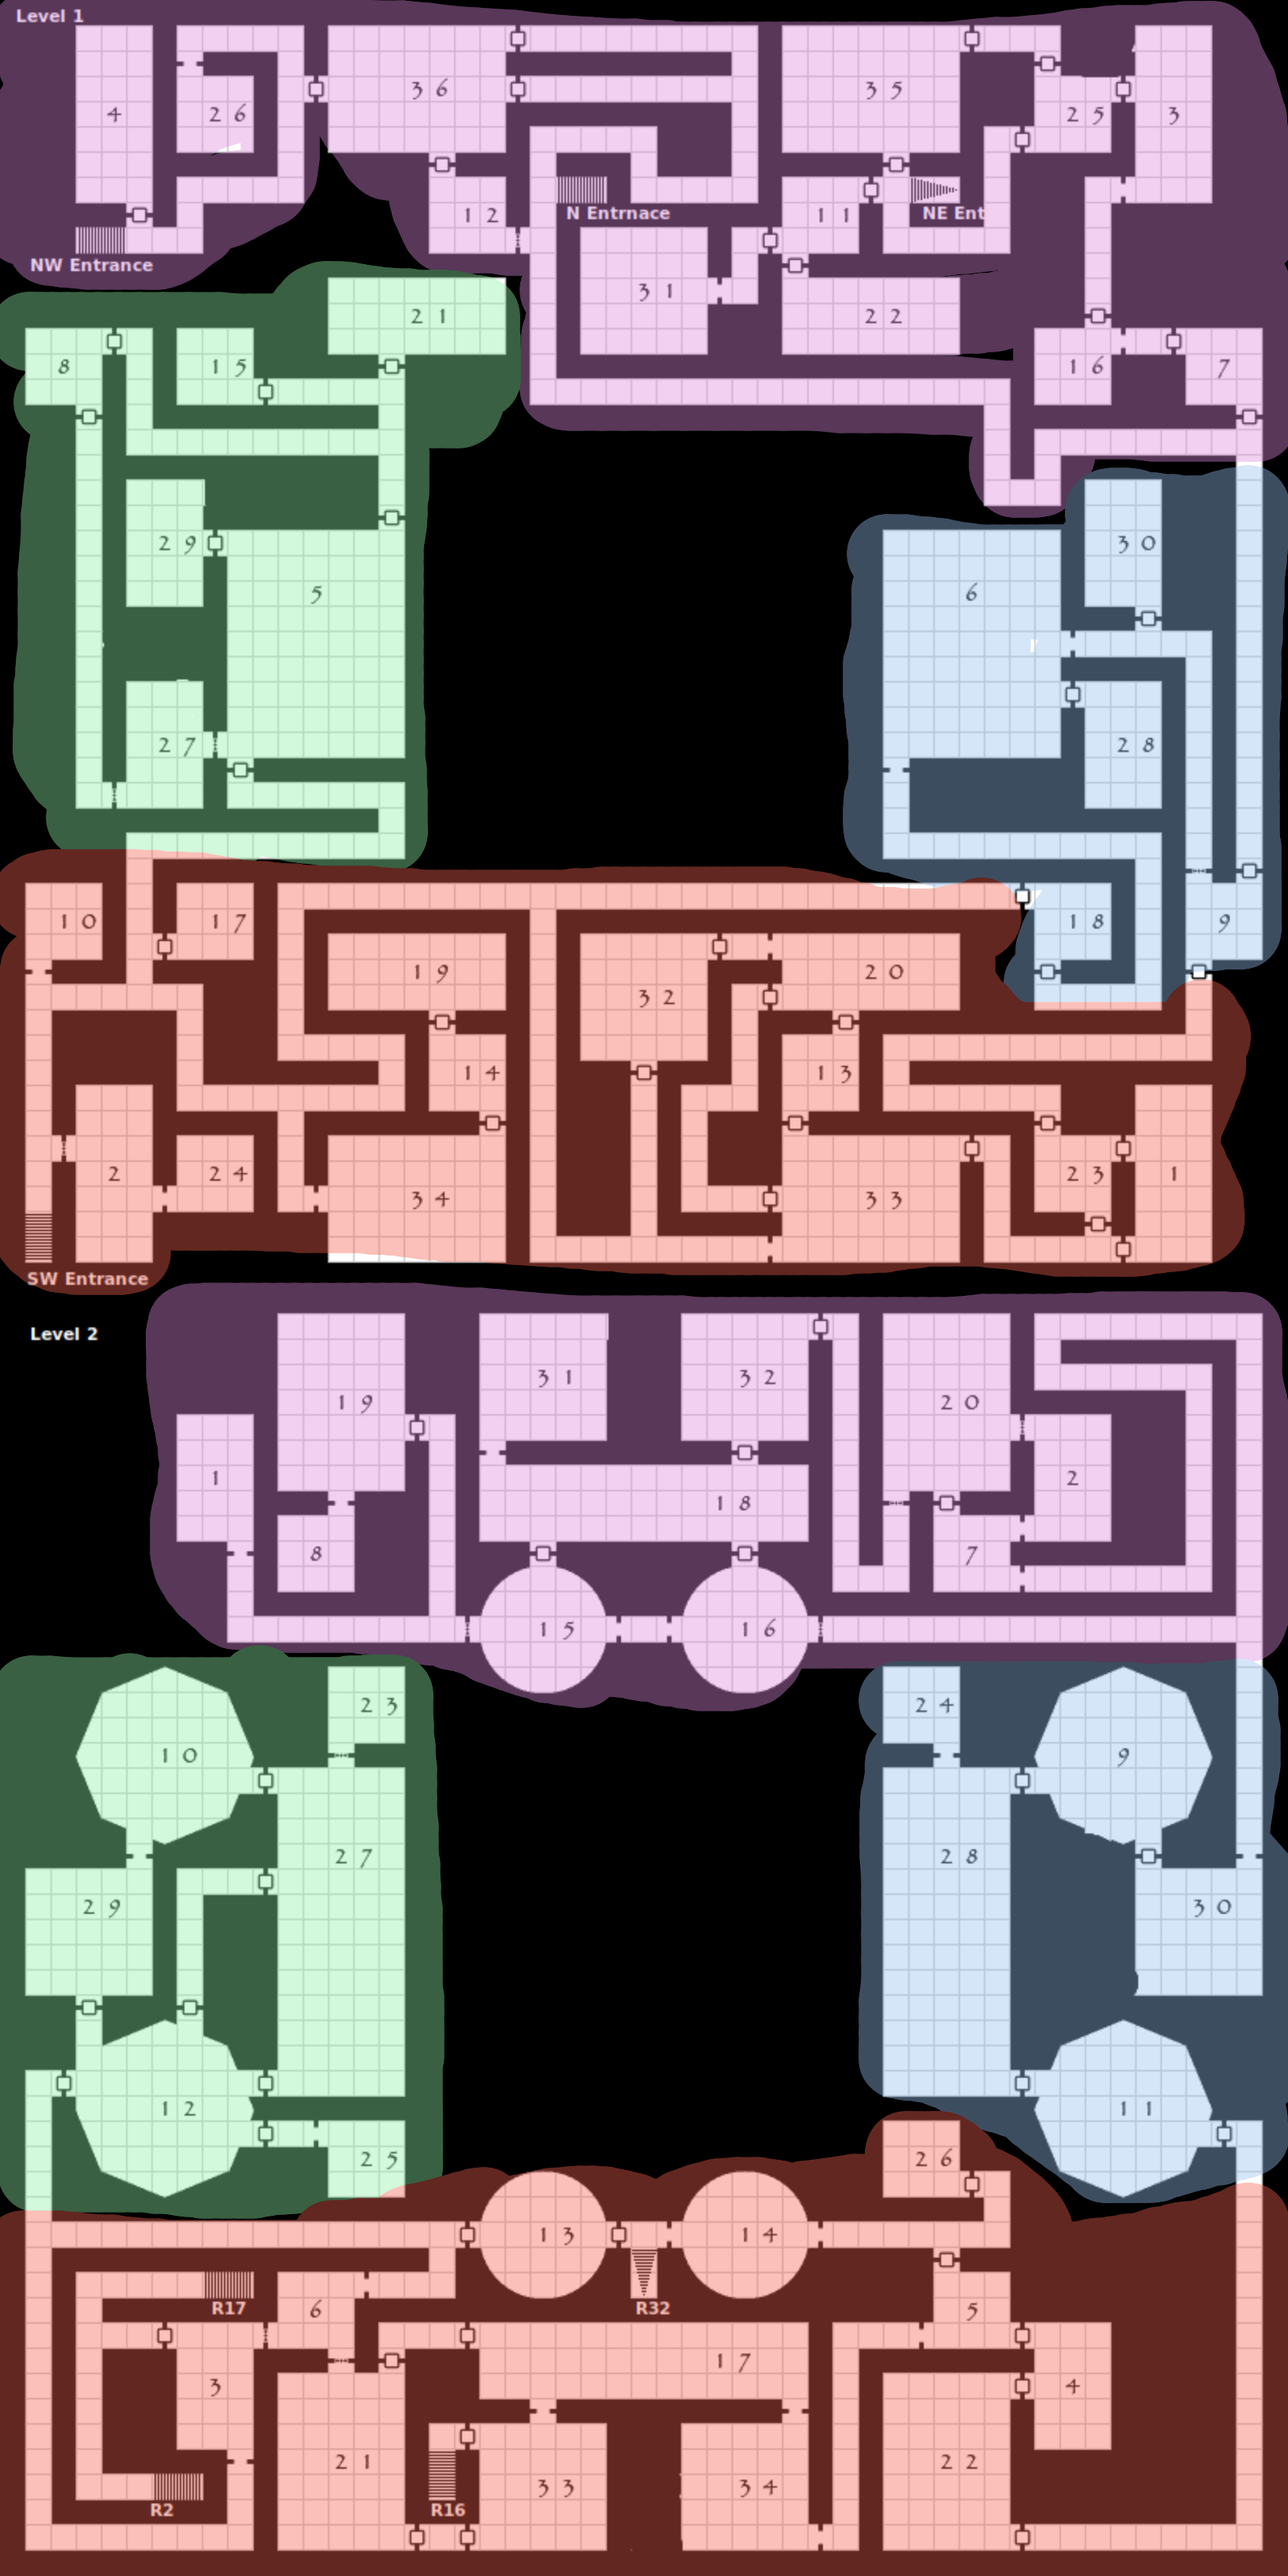
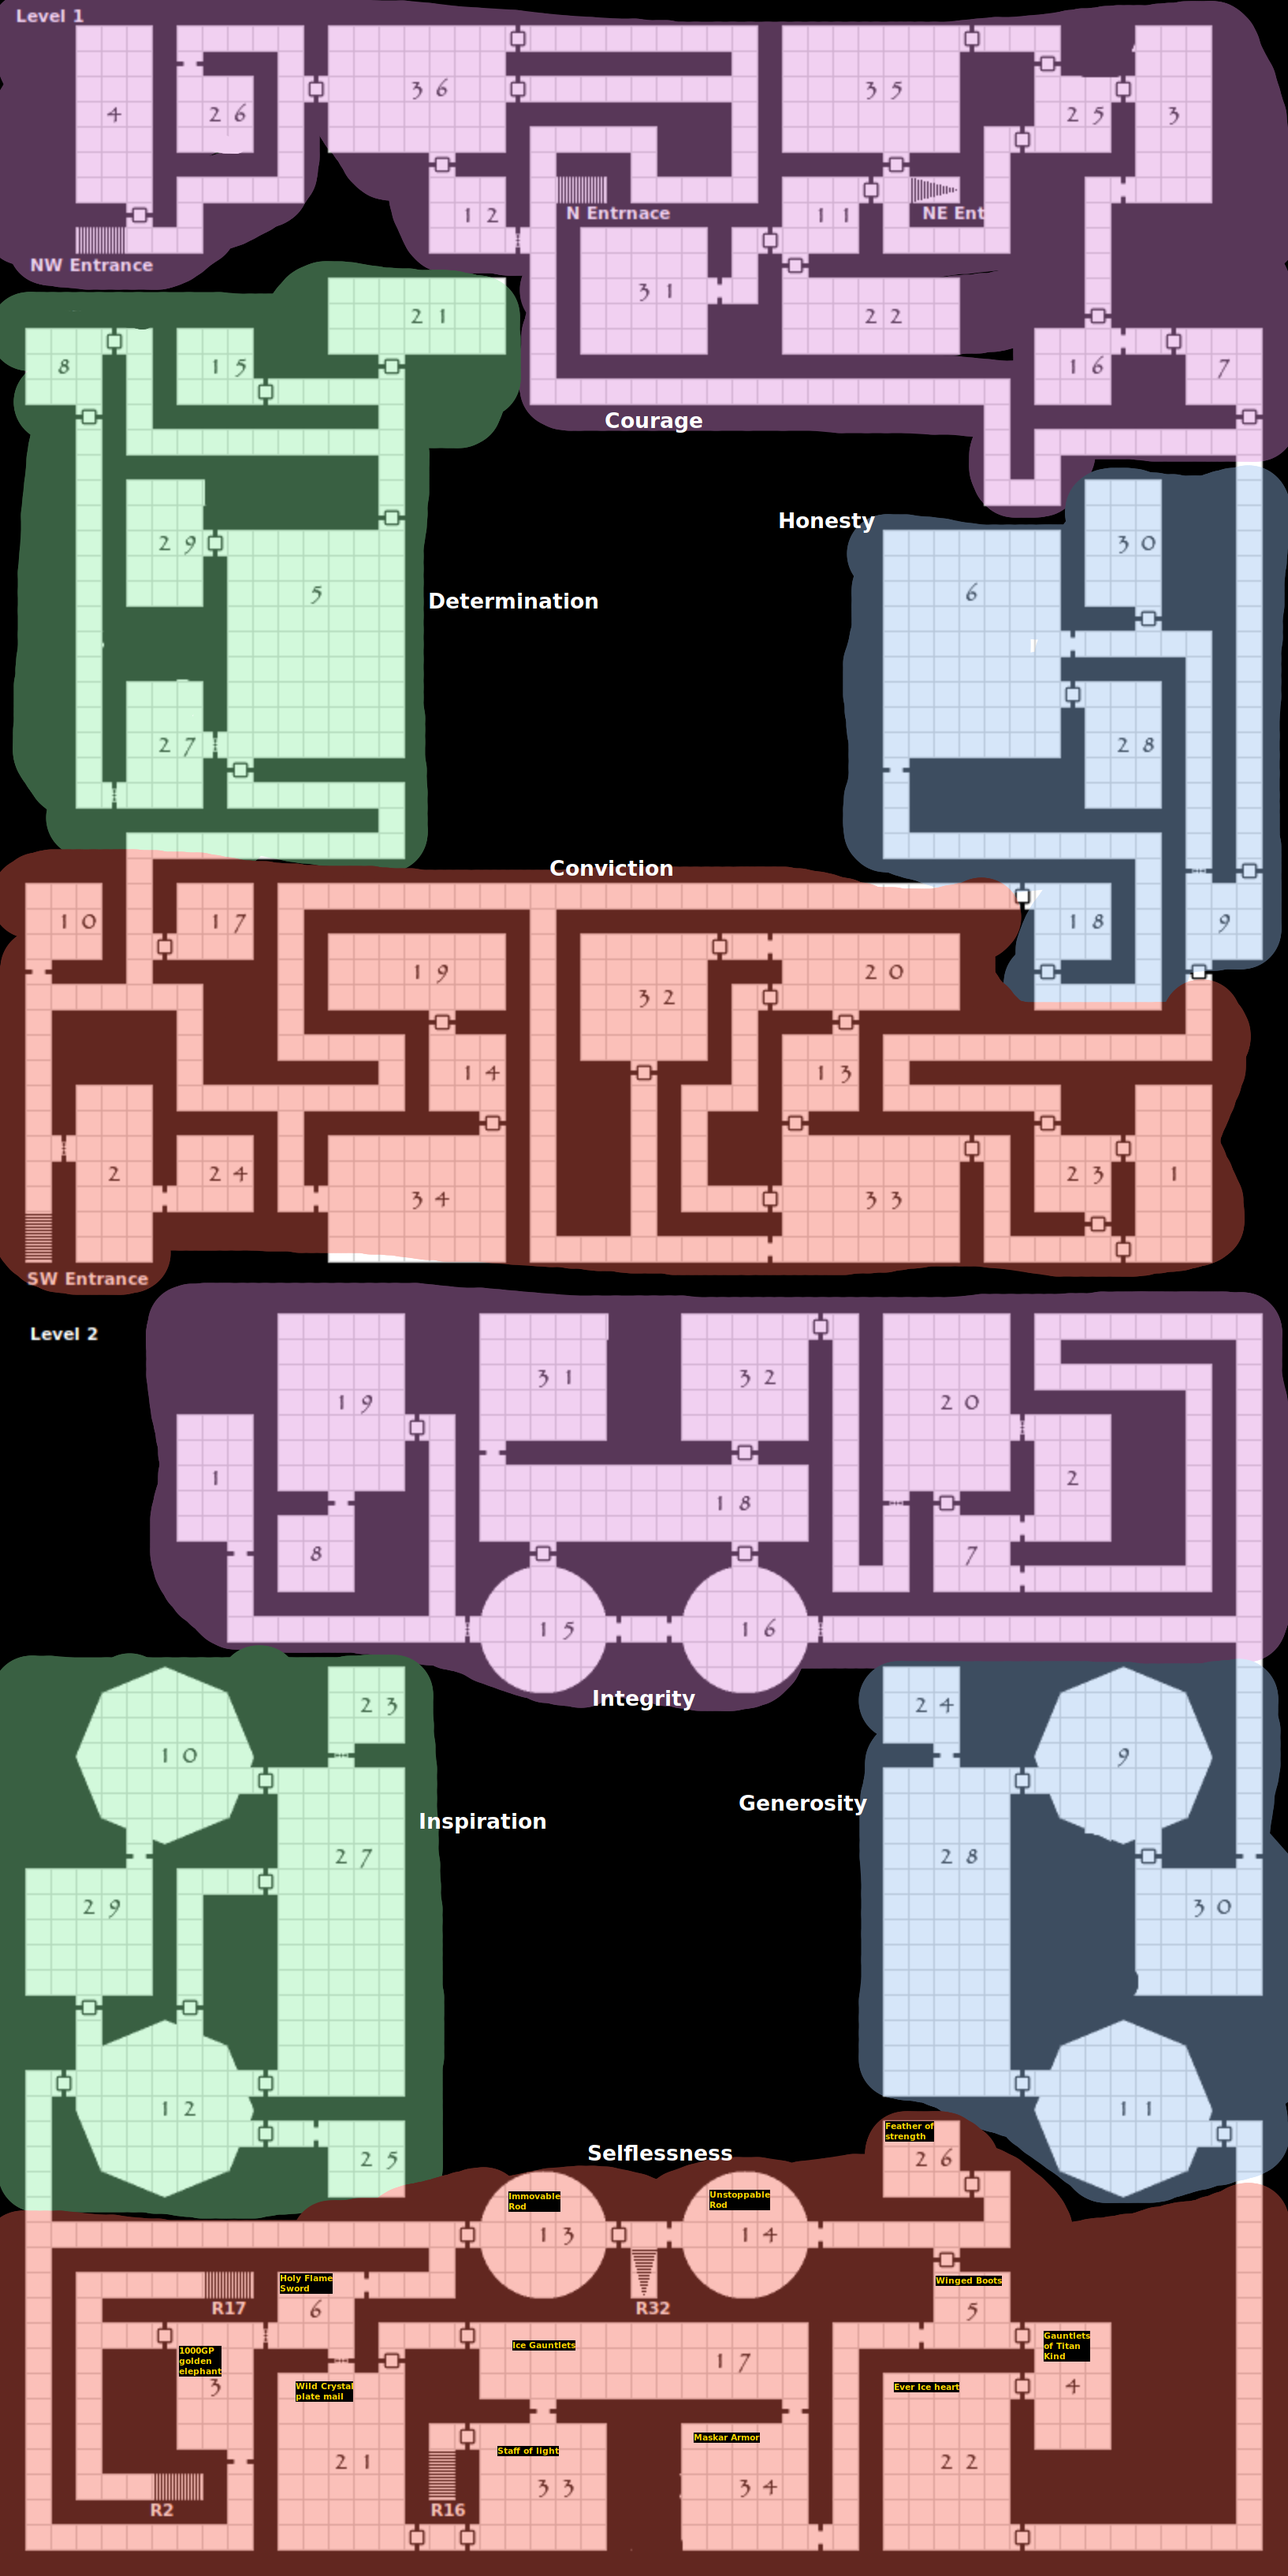
Updated culture images

diff --git a/core_edition/keeper_info/campaigns/korsarus/dungeons/B02/map.md b/core_edition/keeper_info/campaigns/korsarus/dungeons/B02/map.md
@@ -1,59 +1,210 @@
-# Dungeon
+# Wandering Temple of Titan King Yevor
 
-## F1G1
-Boss:
-Mook:
-Loot:
-Trap/Hazard:
-Anomaly:
+## The 8 trials
+- After completing one earn mark by swearing an oath and become knighted(proficient with all armor and weapons)
+- Cannot re-enter the temple unless marked
+- Only one of each mark is given out at a time
+- Killing a markbearer clears their marks to be earned by others, unless the killer was markbearer. A markbearer killing another steals their mark.
+- Someone who reaches 0HP in the temple is teleported outside with 1HP
+- Failing a trial causes the person to be teleported to the entrance
+- All 8 marks must be present to summon Yevor
+- Defeating Yevor grants +3 blacksteel full plate armor
 
-## F1G2
-Boss:
-Mook:
-Loot:
-Trap/Hazard:
-Anomaly:
+Roll an entrance to the temple
+1. Courage
+2. Conviction
+3. Determination
+4. Honesty
+5. Integrity
+6. Inspiration
+7. Generosity
+8. Selflessness
 
-## F1G3
-Boss:
-Mook:
-Loot:
-Trap/Hazard:
-Anomaly:
 
-## F1G4
-Boss:
-Mook:
-Loot:
-Trap/Hazard:
-Anomaly:
+## Trial of Courage
+Boss: Titan Knight Ichta
 
-## F2G1
-Boss:
-Mook:
-Loot:
-Trap/Hazard:
-Anomaly:
+### Boon: Mark of Courage
+Once per day, speak a word of resolve. You gain 15 temporary hit points that last for the next 10 minutes, during which time you are immune to being frightened.
 
-## F2G2
-Boss:
-Mook:
-Loot:
-Trap/Hazard:
-Anomaly:
+### Room 4
 
-## F2G3
-Boss:
-Mook:
-Loot:
-Trap/Hazard:
-Anomaly:
+### Room 26
 
-## F2G4
-Boss:
-Mook:
-Loot:
-Trap/Hazard:
-Anomaly:
+### Room 36
 
+### Room 35
+
+### Room 35
+
+### Room 3
+
+### Room 12
+
+### Room 11
+
+### Room 31
+
+### Room 22
+
+### Room 16
+
+### Room 7
+
+
+## Trial of Conviction
+Boss: Titan Knight Yahze
+
+### Boon: Mark of Conviction
+Once per day, you may resist a charm or effect that would cause you to behave unwillingly.
+
+### Room 10
+
+### Room 17
+
+### Room 2
+
+### Room 24
+
+### Room 19
+
+### Room 14
+
+### Room 34
+
+### Room 32
+
+### Room 20
+
+### Room 13
+
+### Room 33
+
+### Room 23
+
+### Room 1
+
+
+## Trial of Honesty
+Boss: Titan Knight Vuta
+
+### Boon: Mark of Honesty
+Once per day, you may speak a true phrase and everyone who hears it believes it.
+
+### Room 6
+
+### Room 30
+
+### Room 28
+
+### Room 18
+
+### Room 9
+
+
+## Trial of Integrity
+Boss: Titan Knight Hita
+
+### Boon: Mark of integrity
+Once per day, you may perform a morally good act and speak it to regain 5 stamina dice.
+
+### Room 1
+
+### Room 8
+
+### Room 19
+
+### Room 31
+
+### Room 15
+
+### Room 32
+
+### Room 18
+
+### Room 16
+
+### Room 20
+
+### Room 2
+
+### Room 7
+
+
+## Trial of Inspiration
+Boss: Titan Knight Lakito
+
+### Boon: Mark of Inspiration
+Once per day, you may speak a word of encouragement and rally your allies, granting them 10 temporary HP for the next hour.
+
+### Room 23
+
+### Room 10
+
+### Room 29
+
+### Room 27
+
+### Room 12
+
+### Room 25
+
+
+## Trial of Generosity
+Boss: Titan Knight Turukan
+
+### Boon: Mark of Generosity
+Once a day you may touch a pile of gold coins resting on another creature and speak the coarse titan phrase GHITARA to activate this ability. The coins vanish, healing the other creature 1HP per coin. If there were at least 100 coins, the creature is cured of any physical ailments. With 250 coins, an elderly creature is returned to youthful age. With 1000 coins, a corpse is raised from the dead.
+
+### Room 24
+
+### Room 28
+
+### Room 9
+
+### Room 30
+
+### Room 11
+
+## Trial of Selflessness
+Boss: Titan Knight Hanesh wielding noose and axe
+
+### Trial deets
+"Explore these halls. You may touch an item and keep it, but never bare the mark of selflessness after doing so. Observe and refuse three items." (They get teleported out with item, marked with greed tatoo on wrist, cuff, or ankle)
+"You refused an item. Give up one prized possession, and it will be transferred to someone in dire need of it."
+"I give a copper coin." -> Teleported out.
+"I have nothing to give." -> "This is not true. Do you not prize your limbs, ears, eyes, or nose?"
+"I still have nothing to give." -> Telported out.
+
+After three possessions are given up -> "One final trial. You may leave here with all your possessions returned to you from people who direly needed them, or you may free the mark of selflessness, which will go to someone in the world who truly needs it. If you free the mark, you may never bare it."
+
+### Boon: Mark of Selflessness
+Once per day, the user speaks a word of healing and regains all of their hit points. This boon may be transferred to someone who has not yet been marked with it. The transferree is completely healed, and if they were dead for less than a year, they are resurrected.
+
+## Trial of Determination
+Boss: Titan Knight Kevi 
+
+### Boon: Mark of Determination
+Once per day, when you die, your corpse speaks a word of determination and you return from the dead. This effect regrows limbs and vital organs as well as purges poisons from the body.
+
+### Room 21
+
+### Room 15
+
+### Room 29
+
+### Room 5
+
+### Room 27
+
+
+## King Yevor
+
+### Loot
+Defeating the king grants each markbearer suit of +3 blacksteel full plate and a +3 blacksteel greatsword. While wearing the armor and wielding the sword, they may consume a stamina die to make a shout. They roll a CHA check, and all creatures within a 30ft cone must make WIS save or be thrown 10ft, falling prone if they collide with another creature.
+
+### Titan King Yevor
+`Titan King Yevor, XP: 100, HP: 112(10d10+12), AC: 16 (chain mail), Speed: 25ft, [18, 8, 14, 20, 4, 4], Battleaxe +5 1d8+3`
+- Weak: Radiant, Resistant: Non-magical physical, Immune: Necrotic
+- Shout: All creatures in a 15ft cone must succeed a DC 14 STR save or be thrown backward 10ft, falling prone if they collide with another creature.
 

diff --git a/core_edition/keeper_info/magic_items.md b/core_edition/keeper_info/magic_items.md
@@ -382,7 +382,7 @@ Each ring has a particular ability. A wearer that attunes to it will have a +2 b
 Each ring has a particular ability. A wearer that attunes to it will have a +3 bonus to that ability score. Wearing the ring cannot raise an ability score past 20.
 
 ### Ring of ghostly breath
-When attuned to this ring, the wearer's breath will become visible when within 300 feet of an undead.
+When attuned to this ring, the wearer's breath will become visible when within 300 feet of undead creatures.
 
 ### Ring of Disguise
 When attuned to this ring, the wearer may cast disguise self at will.
@@ -977,6 +977,25 @@ This cloak features many small pockets. When the wearer speaks a command word, t
 
 ## Legendary Items
 These items are more mechanically complex than most other magic items and may have world-altering consequences.
+
+### Armor of Yevor 
++3 blacksteel full plate
+Worn by titan knights of Yevor. The armor feels hot to the touch to anyone who is not wearing a mark of Yevor, burning them with radiant energy. The wearer may use their bonus action to consume one or more stamina dice and shout in coarse titan, projecting the shout in a 15ft cone. The wearer makes a CHA check which serves as DC of a STR save for all creatures in the cone to avoid being pushed 10ft. For each stamina die other than the first, their CHA check gains a +1 bonus, and targets that fail are pushed an additional 10ft. A wearer bearing all 8 marks unlocks the armor's true power.
+
+
+With all 8 marks, the wearer gains a fly speed of 60ft and may expend one or more stamina dice, roll them, and gain that much temporary HP.
+
+### Sword of Yevor
++3 blacksteel greatsword
+Wielded by titan knights of Yevor. This sword feels hot to the touch to anyone who is not wielding a mark of yevor, burning them with radiant energy. The wearer may use their bonus action to consume five stamina dice in order to cast the fireball spell. With all 8 marks, the wearer unlocks the blade's true power.
+
+With all 8 marks, the cost of casting fireball with this sword is reduced to one stamina die.
+
+### Maskar Armor
++1 platemail
+Originating from Maskar, the first human to slay a dragon. The armor bares the jade color of the banner of Maskar's dragon lord, Evibaran, who was slain. Evibaran cursed Maskar with his dying breath, causing the warrior to cry tears of blood. When Maskar died, he trapped his soul and the curse in the armor. The visor of it's helm remains wet with fresh blood that reappears if wiped away.
+
+The wearer sees a red aura around any creature within 30ft that has blood. The auras prevent the wearer from seeing faces within that range, but creatures are otherwise normally visible.
 
 ### Greatsword of Wrath
 This greatsword's powers change as it's bond grows with one individual.

diff --git a/core_edition/character_creation/cultures.md b/core_edition/character_creation/cultures.md
@@ -191,6 +191,7 @@ You didn't get where you are by paying full price. The first charisma check you 
 It's hard for others to know what you have and haven't experienced. When you tell a tall tale, you get advantage on any deceptive charisma check.
 
 ## 6 Field Folk
+![Gold robes](https://raw.githubusercontent.com/blukatdevelopment/UnchainedWorlds/main/img/culture_field_folk.jpg "Field Folk")
 Farmers, foresters, and fishermen bear this name. It is a simple life, but often a rewarding one.
 
 Large and huge folk play a specific role in Field Folk cultures. Capable of pulling plows, of lifting timbers directly, and performing other miracles that a team would otherwise be needed for, larger folk also act as defenders for many Field Folk communities. At summer solstice, Field Folk often spend the day celebrating their community's giants by baking confections and singing.
@@ -216,6 +217,7 @@ Even if it's not your job, you've spent a lot of time near livestock. You have a
 You have advantage on charisma checks if they rely on you telling stories, true or otherwise.
 
 ## 7 Deep folk
+![Gold robes](https://raw.githubusercontent.com/blukatdevelopment/UnchainedWorlds/main/img/culture_deep_folk.jpg "Deep Folk")
 The residents of the caves and mines that honeycomb many regions, most deep folk never venture into the sunlight more than once or twice in their life. Subsisting on farming fungi and hunting underground monsters, the deep folk are often proud warriors. 
 
 Deep folk warrens have acted as spaces of refuge over the years. Many soots found their way into deep folk warrens when the boom and bust left them jobless, or when industrial accidents left entire families of orphans. The tradition of soots visiting warrens to check on rehomed friends and loved ones has resulted in the singular channel of trade that the communities are familiar with, often exporting fungi and monster parts.

diff --git a/core_edition/keeper_info/campaigns/korsarus/dungeons.md b/core_edition/keeper_info/campaigns/korsarus/dungeons.md
@@ -30,11 +30,12 @@
 - D20: 
 
 ## Large dungeons
-- A01: 
-- B01: 
+- A01: Ice Dungeon
+- A02: Missile Silo
+- B02: Titan King Yevor's Wandering Temple
+- B01: Flame tiger & Ice Lion
 - C01: Monolith
-- A02: 
-- B02: 
+
 
 ## Megadungeon
 - E01: Inverted Spire under Korsarus Arena
